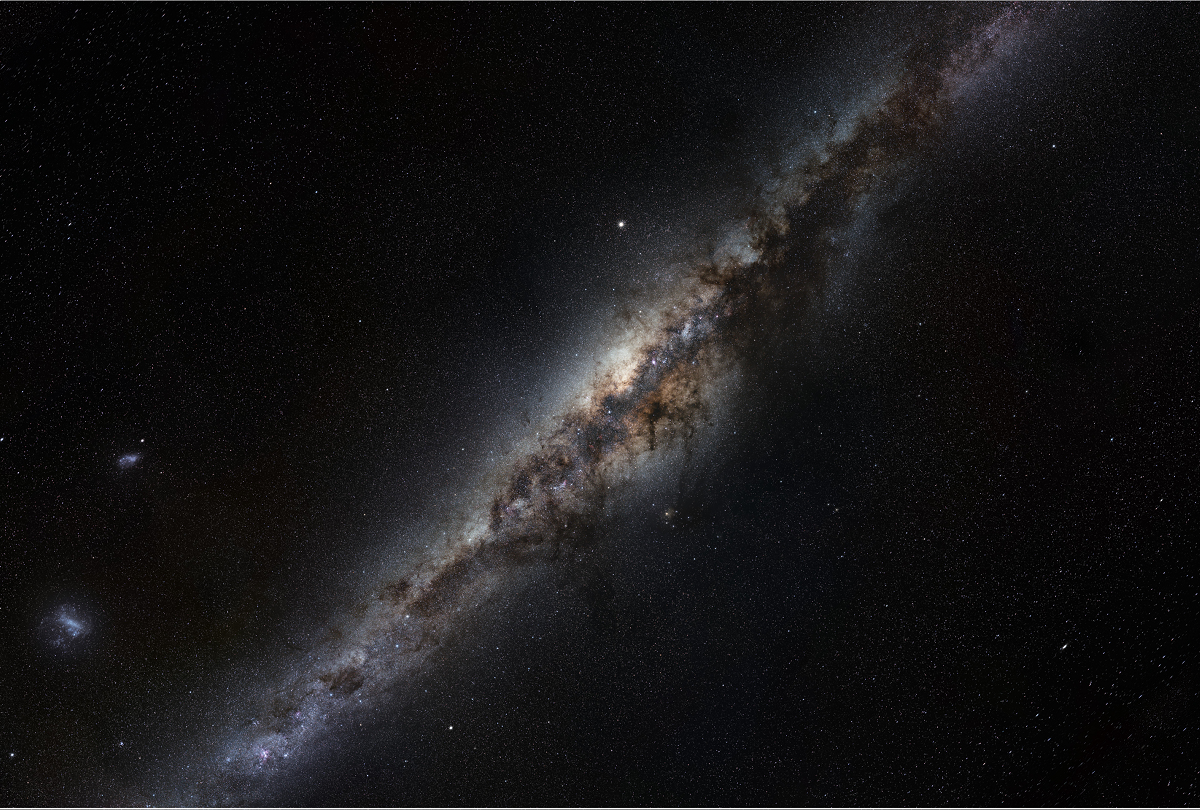
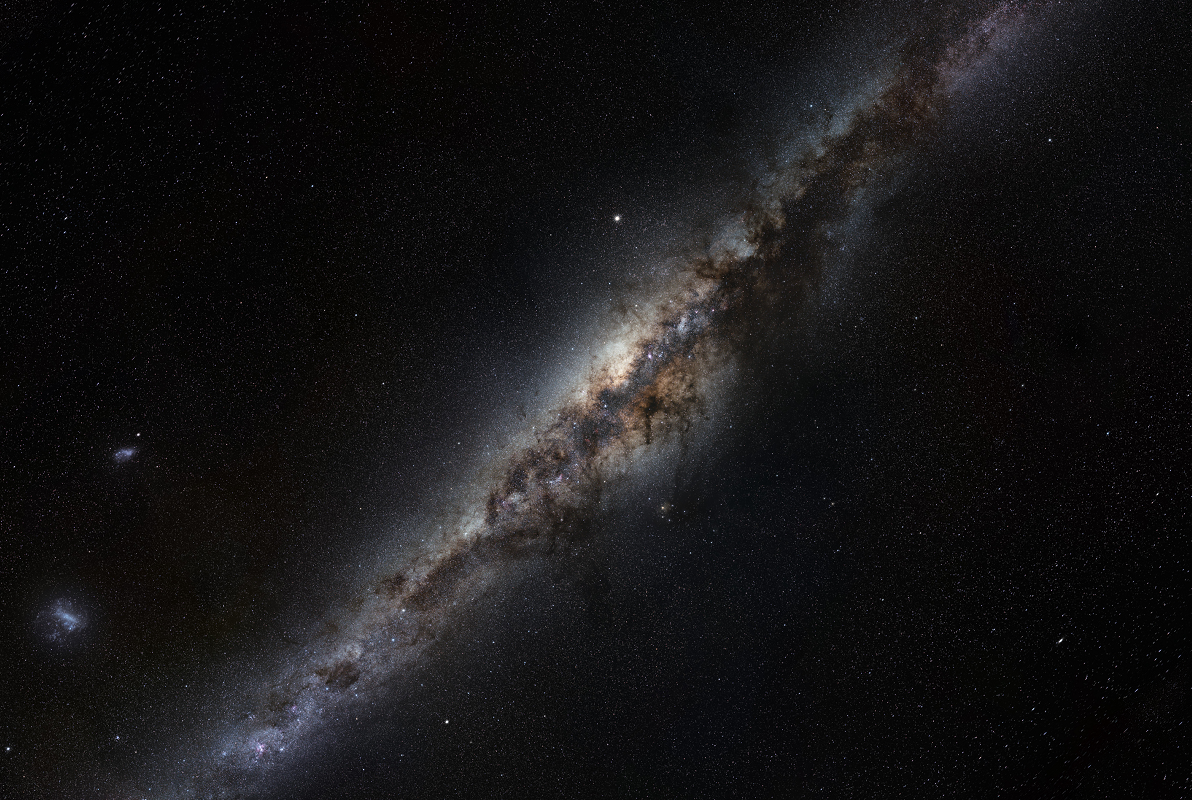
defined presets, adjusted scaling dialog and fixed a bug with background images

diff --git a/Project/core/src/main/java/dhbw/karlsruhe/it/solar/core/stages/guielements/configelements/ScaleDialog.java b/Project/core/src/main/java/dhbw/karlsruhe/it/solar/core/stages/guielements/configelements/ScaleDialog.java
@@ -10,6 +10,9 @@ import dhbw.karlsruhe.it.solar.core.solar.SolarEngine;
 import dhbw.karlsruhe.it.solar.core.stages.guielements.Tooltip;
 import dhbw.karlsruhe.it.solar.core.usercontrols.*;
 
+import java.util.ArrayList;
+import java.util.List;
+
 /**
  * Created by Arga on 12.02.2015.
  */
@@ -17,6 +20,7 @@ public class ScaleDialog {
 
     private Stage stage;
     public Tooltip scaleDialog;
+    public List<ScaleSlider> scaleSliders;
 
     public ScaleDialog(Stage stage) {
         this.stage = stage;
@@ -38,8 +42,10 @@ public class ScaleDialog {
         Label presetLabel = new Label("Load a Preset", SolarEngine.get().styles.defaultLabelStyle);
         presetLabel.setAlignment(Align.center);
 
+        scaleSliders = new ArrayList<ScaleSlider>();
+        
         ScaleSlider starShapeSlider = new ShapeScaleSlider(stage, ConfigurationConstants.SCALE_FACTOR_STAR, 1, 100, Star.class);
-        ScaleSlider planetShapeSlider = new ShapeScaleSlider(stage, ConfigurationConstants.SCALE_FACTOR_PLANET, 1, 5000, Planet.class);
+        ScaleSlider planetShapeSlider = new ShapeScaleSlider(stage, ConfigurationConstants.SCALE_FACTOR_PLANET, 1, 2000, Planet.class);
         ScaleSlider asteroidShapeSlider = new ShapeScaleSlider(stage, ConfigurationConstants.SCALE_FACTOR_ASTEROID, 1, 10000, Asteroid.class);
         ScaleSlider moonShapeSlider = new ShapeScaleSlider(stage, ConfigurationConstants.SCALE_FACTOR_MOON, 1, 5000, Moon.class);
         ScaleSlider unitShapeSlider = new ShapeScaleSlider(stage, ConfigurationConstants.SCALE_FACTOR_UNITS, 40000, 40000000, Spaceship.class);
@@ -48,10 +54,21 @@ public class ScaleDialog {
         ScaleSlider asteroidOrbitSlider = new OrbitScaleSlider(stage, ConfigurationConstants.SCALE_FACTOR_ASTEROID, 0.1f, 200, Asteroid.class);
         ScaleSlider moonOrbitSlider = new OrbitScaleSlider(stage, ConfigurationConstants.SCALE_FACTOR_MOON, 0.1f, 200, Moon.class);
 
+        scaleSliders.add(starShapeSlider);
+        scaleSliders.add(planetShapeSlider);
+        scaleSliders.add(asteroidShapeSlider);
+        scaleSliders.add(moonShapeSlider);
+        scaleSliders.add(unitShapeSlider);
+
+        scaleSliders.add(planetOrbitSlider);
+        scaleSliders.add(asteroidOrbitSlider);
+        scaleSliders.add(moonOrbitSlider);
+        
         ScalePresetButton preset1Button = new ScalePresetButton("Preset 1") {
             @Override
             public void onClick() {
                 ScalePresetButton.loadPreset1();
+                refreshSliders();
             }
         };
 
@@ -59,6 +76,7 @@ public class ScaleDialog {
             @Override
             public void onClick() {
                 ScalePresetButton.loadPreset2();
+                refreshSliders();
             }
         };
 
@@ -66,6 +84,7 @@ public class ScaleDialog {
             @Override
             public void onClick() {
                 ScalePresetButton.loadPreset3();
+                refreshSliders();
             }
         };
 
@@ -75,16 +94,14 @@ public class ScaleDialog {
         presetButtonTable.add(preset3Button);
 
         contentTable.add(shapeLabel).fillX().height(25).row();
-        contentTable.add(starShapeSlider).fillX().height(25).row();
-        contentTable.add(planetShapeSlider).fillX().height(25).row();
-        contentTable.add(moonShapeSlider).fillX().height(25).row();
-        contentTable.add(asteroidShapeSlider).fillX().height(25).row();
-        contentTable.add(unitShapeSlider).fillX().height(25).row();
+        for(int i = 0; i < 5; i++) {
+            contentTable.add(scaleSliders.get(i)).fillX().height(25).row();
+        }
 
         contentTable.add(orbitLabel).fillX().height(25).row();
-        contentTable.add(planetOrbitSlider).fillX().height(25).row();
-        contentTable.add(asteroidOrbitSlider).fillX().height(25).row();
-        contentTable.add(moonOrbitSlider).fillX().height(25).row();
+        for(int i = 5; i < 8; i++) {
+            contentTable.add(scaleSliders.get(i)).fillX().height(25).row();
+        }
 
         contentTable.add(presetLabel).fillX().height(25).row();
         contentTable.add(presetButtonTable).fillX().height(25).padTop(3).row();
@@ -95,6 +112,12 @@ public class ScaleDialog {
         scaleDialog.setColor(windowColor);
 
         scaleDialog.updatePosition();
+    }
+
+    private void refreshSliders() {
+        for (ScaleSlider scaleSlider : scaleSliders) {
+            scaleSlider.refreshValues();
+        }
     }
 
     public static void createScaleDialog(Stage stage) {

diff --git a/Project/core/src/main/java/dhbw/karlsruhe/it/solar/core/stages/guielements/configelements/ScalePresetButton.java b/Project/core/src/main/java/dhbw/karlsruhe/it/solar/core/stages/guielements/configelements/ScalePresetButton.java
@@ -46,17 +46,17 @@ public abstract class ScalePresetButton extends TextButton {
 
     public static void loadPreset2() {
         ConfigurationConstants.SCALE_FACTOR_ASTEROID.set(2,2);
-        ConfigurationConstants.SCALE_FACTOR_MOON.set(2,2);
-        ConfigurationConstants.SCALE_FACTOR_PLANET.set(2,2);
-        ConfigurationConstants.SCALE_FACTOR_STAR.set(2,2);
+        ConfigurationConstants.SCALE_FACTOR_MOON.set(80,20);
+        ConfigurationConstants.SCALE_FACTOR_PLANET.set(20,0.3f);
+        ConfigurationConstants.SCALE_FACTOR_STAR.set(20,1);
         ConfigurationConstants.SCALE_FACTOR_UNITS.set(2,2);
     }
 
     public static void loadPreset3() {
         ConfigurationConstants.SCALE_FACTOR_ASTEROID.set(3,3);
-        ConfigurationConstants.SCALE_FACTOR_MOON.set(3,3);
-        ConfigurationConstants.SCALE_FACTOR_PLANET.set(3,3);
-        ConfigurationConstants.SCALE_FACTOR_STAR.set(3,3);
+        ConfigurationConstants.SCALE_FACTOR_MOON.set(500,50);
+        ConfigurationConstants.SCALE_FACTOR_PLANET.set(80,0.6f);
+        ConfigurationConstants.SCALE_FACTOR_STAR.set(24,1);
         ConfigurationConstants.SCALE_FACTOR_UNITS.set(3,3);
     }
 }

diff --git a/Project/core/src/main/java/dhbw/karlsruhe/it/solar/core/stages/BackgroundStage.java b/Project/core/src/main/java/dhbw/karlsruhe/it/solar/core/stages/BackgroundStage.java
@@ -33,7 +33,7 @@ public class BackgroundStage extends BaseBackgroundStage
         backgroundImage = new Image(backgroundTextures.get(name));
         backgroundImage.setScaling(Scaling.fill);
         backgroundImage.setPosition(0,0);
-        backgroundImage.setSize(Gdx.graphics.getWidth(), Gdx.graphics.getHeight());
+        backgroundImage.setColor(1,1,1,.6f);
         addActor(backgroundImage);
     }
 

diff --git a/Project/core/src/main/java/dhbw/karlsruhe/it/solar/core/stages/guielements/configelements/ScaleSlider.java b/Project/core/src/main/java/dhbw/karlsruhe/it/solar/core/stages/guielements/configelements/ScaleSlider.java
@@ -84,4 +84,8 @@ public abstract class ScaleSlider extends WidgetGroup {
     protected abstract void initialize();
     protected abstract void updateScale(float value);
 
+    public void refreshValues() {
+        initialize();
+    }
+
 }
